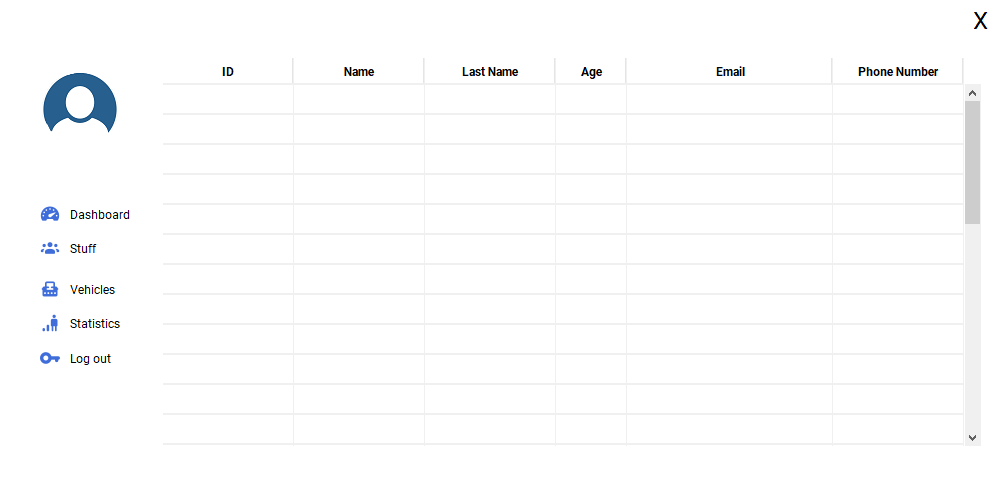
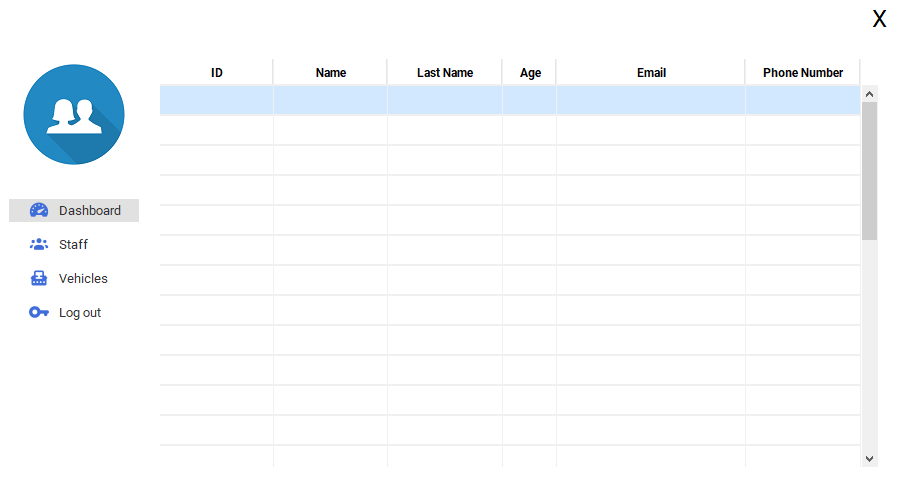
Add menu events

diff --git a/src/main/java/com/tix/dashboard/components/MenuButton.java b/src/main/java/com/tix/dashboard/components/MenuButton.java
@@ -5,9 +5,9 @@
 package com.tix.dashboard.components;
 
 import com.tix.dashboard.event.MenuEvent;
-import com.tix.login.Login;
-import com.tix.main.Main;
 import java.awt.Color;
+import java.util.ArrayList;
+import javax.swing.JButton;
 
 /**
  *
@@ -20,6 +20,10 @@ public class MenuButton extends javax.swing.JPanel {
      */
     public MenuButton() {
         initComponents();
+        buttons.add(dashboardButton);
+        buttons.add(staffButton);
+        buttons.add(vehiclesButton);
+        buttons.add(logoutButton);
     }
 
     /**
@@ -51,19 +55,13 @@ public class MenuButton extends javax.swing.JPanel {
         dashboardButton.setIconTextGap(10);
         dashboardButton.addMouseListener(new java.awt.event.MouseAdapter() {
             public void mouseClicked(java.awt.event.MouseEvent evt) {
-                dashboardButtonMouseClicked(evt);
+                buttonMouseClicked(evt);
             }
             public void mouseEntered(java.awt.event.MouseEvent evt) {
-                dashboardButtonMouseEntered(evt);
+                buttonMouseEntered(evt);
             }
             public void mouseExited(java.awt.event.MouseEvent evt) {
-                dashboardButtonMouseExited(evt);
-            }
-            public void mousePressed(java.awt.event.MouseEvent evt) {
-                dashboardButtonMousePressed(evt);
-            }
-            public void mouseReleased(java.awt.event.MouseEvent evt) {
-                dashboardButtonMouseReleased(evt);
+                buttonMouseExited(evt);
             }
         });
 
@@ -80,19 +78,13 @@ public class MenuButton extends javax.swing.JPanel {
         staffButton.setIconTextGap(10);
         staffButton.addMouseListener(new java.awt.event.MouseAdapter() {
             public void mouseClicked(java.awt.event.MouseEvent evt) {
-                staffButtonMouseClicked(evt);
+                buttonMouseClicked(evt);
             }
             public void mouseEntered(java.awt.event.MouseEvent evt) {
-                staffButtonMouseEntered(evt);
+                buttonMouseEntered(evt);
             }
             public void mouseExited(java.awt.event.MouseEvent evt) {
-                staffButtonMouseExited(evt);
-            }
-            public void mousePressed(java.awt.event.MouseEvent evt) {
-                staffButtonMousePressed(evt);
-            }
-            public void mouseReleased(java.awt.event.MouseEvent evt) {
-                staffButtonMouseReleased(evt);
+                buttonMouseExited(evt);
             }
         });
 
@@ -109,19 +101,13 @@ public class MenuButton extends javax.swing.JPanel {
         vehiclesButton.setIconTextGap(10);
         vehiclesButton.addMouseListener(new java.awt.event.MouseAdapter() {
             public void mouseClicked(java.awt.event.MouseEvent evt) {
-                vehiclesButtonMouseClicked(evt);
+                buttonMouseClicked(evt);
             }
             public void mouseEntered(java.awt.event.MouseEvent evt) {
-                vehiclesButtonMouseEntered(evt);
+                buttonMouseEntered(evt);
             }
             public void mouseExited(java.awt.event.MouseEvent evt) {
-                vehiclesButtonMouseExited(evt);
-            }
-            public void mousePressed(java.awt.event.MouseEvent evt) {
-                vehiclesButtonMousePressed(evt);
-            }
-            public void mouseReleased(java.awt.event.MouseEvent evt) {
-                vehiclesButtonMouseReleased(evt);
+                buttonMouseExited(evt);
             }
         });
 
@@ -138,19 +124,13 @@ public class MenuButton extends javax.swing.JPanel {
         logoutButton.setIconTextGap(10);
         logoutButton.addMouseListener(new java.awt.event.MouseAdapter() {
             public void mouseClicked(java.awt.event.MouseEvent evt) {
-                logoutButtonMouseClicked(evt);
+                buttonMouseClicked(evt);
             }
             public void mouseEntered(java.awt.event.MouseEvent evt) {
-                logoutButtonMouseEntered(evt);
+                buttonMouseEntered(evt);
             }
             public void mouseExited(java.awt.event.MouseEvent evt) {
-                logoutButtonMouseExited(evt);
-            }
-            public void mousePressed(java.awt.event.MouseEvent evt) {
-                logoutButtonMousePressed(evt);
-            }
-            public void mouseReleased(java.awt.event.MouseEvent evt) {
-                logoutButtonMouseReleased(evt);
+                buttonMouseExited(evt);
             }
         });
 
@@ -178,94 +158,31 @@ public class MenuButton extends javax.swing.JPanel {
         );
     }// </editor-fold>//GEN-END:initComponents
 
-    private void dashboardButtonMouseEntered(java.awt.event.MouseEvent evt) {//GEN-FIRST:event_dashboardButtonMouseEntered
-        dashboardButton.setBackground(new Color(225, 225, 225));
-    }//GEN-LAST:event_dashboardButtonMouseEntered
+    private void buttonMouseEntered(java.awt.event.MouseEvent evt) {//GEN-FIRST:event_buttonMouseEntered
+        for (JButton button : buttons) {
+            if (evt.getSource().equals(button)) {
+                button.setBackground(new Color(225, 225, 225));
+            }
+        }
+    }//GEN-LAST:event_buttonMouseEntered
 
-    private void dashboardButtonMouseExited(java.awt.event.MouseEvent evt) {//GEN-FIRST:event_dashboardButtonMouseExited
-        dashboardButton.setBackground(new Color(255, 255, 255));
-    }//GEN-LAST:event_dashboardButtonMouseExited
+    private void buttonMouseExited(java.awt.event.MouseEvent evt) {//GEN-FIRST:event_buttonMouseExited
+        for (JButton button : buttons) {
+            if (evt.getSource().equals(button)) {
+                button.setBackground(new Color(255, 255, 255));
+            }
+        }
+    }//GEN-LAST:event_buttonMouseExited
 
-    private void dashboardButtonMousePressed(java.awt.event.MouseEvent evt) {//GEN-FIRST:event_dashboardButtonMousePressed
-        dashboardButton.setForeground(new Color(255, 255, 255));
-    }//GEN-LAST:event_dashboardButtonMousePressed
-
-    private void dashboardButtonMouseReleased(java.awt.event.MouseEvent evt) {//GEN-FIRST:event_dashboardButtonMouseReleased
-        dashboardButton.setForeground(new Color(51, 51, 51));
-    }//GEN-LAST:event_dashboardButtonMouseReleased
-
-    private void staffButtonMouseEntered(java.awt.event.MouseEvent evt) {//GEN-FIRST:event_staffButtonMouseEntered
-        staffButton.setBackground(new Color(225, 225, 225));
-    }//GEN-LAST:event_staffButtonMouseEntered
-
-    private void staffButtonMouseExited(java.awt.event.MouseEvent evt) {//GEN-FIRST:event_staffButtonMouseExited
-        staffButton.setBackground(new Color(255, 255, 255));
-    }//GEN-LAST:event_staffButtonMouseExited
-
-    private void staffButtonMousePressed(java.awt.event.MouseEvent evt) {//GEN-FIRST:event_staffButtonMousePressed
-        staffButton.setForeground(new Color(255, 255, 255));
-    }//GEN-LAST:event_staffButtonMousePressed
-
-    private void staffButtonMouseReleased(java.awt.event.MouseEvent evt) {//GEN-FIRST:event_staffButtonMouseReleased
-        staffButton.setForeground(new Color(51, 51, 51));
-    }//GEN-LAST:event_staffButtonMouseReleased
-
-    private void vehiclesButtonMouseEntered(java.awt.event.MouseEvent evt) {//GEN-FIRST:event_vehiclesButtonMouseEntered
-        vehiclesButton.setBackground(new Color(225, 225, 225));
-    }//GEN-LAST:event_vehiclesButtonMouseEntered
-
-    private void vehiclesButtonMouseExited(java.awt.event.MouseEvent evt) {//GEN-FIRST:event_vehiclesButtonMouseExited
-        vehiclesButton.setBackground(new Color(255, 255, 255));
-    }//GEN-LAST:event_vehiclesButtonMouseExited
-
-    private void vehiclesButtonMousePressed(java.awt.event.MouseEvent evt) {//GEN-FIRST:event_vehiclesButtonMousePressed
-        vehiclesButton.setForeground(new Color(255, 255, 255));
-    }//GEN-LAST:event_vehiclesButtonMousePressed
-
-    private void vehiclesButtonMouseReleased(java.awt.event.MouseEvent evt) {//GEN-FIRST:event_vehiclesButtonMouseReleased
-        vehiclesButton.setForeground(new Color(51, 51, 51));
-    }//GEN-LAST:event_vehiclesButtonMouseReleased
-
-    private void logoutButtonMouseEntered(java.awt.event.MouseEvent evt) {//GEN-FIRST:event_logoutButtonMouseEntered
-        logoutButton.setBackground(new Color(225, 225, 225));
-    }//GEN-LAST:event_logoutButtonMouseEntered
-
-    private void logoutButtonMouseExited(java.awt.event.MouseEvent evt) {//GEN-FIRST:event_logoutButtonMouseExited
-        logoutButton.setBackground(new Color(255, 255, 255));
-    }//GEN-LAST:event_logoutButtonMouseExited
-
-    private void logoutButtonMousePressed(java.awt.event.MouseEvent evt) {//GEN-FIRST:event_logoutButtonMousePressed
-        logoutButton.setForeground(new Color(255, 255, 255));
-    }//GEN-LAST:event_logoutButtonMousePressed
-
-    private void logoutButtonMouseReleased(java.awt.event.MouseEvent evt) {//GEN-FIRST:event_logoutButtonMouseReleased
-        logoutButton.setForeground(new Color(51, 51, 51));
-    }//GEN-LAST:event_logoutButtonMouseReleased
-
-    private void dashboardButtonMouseClicked(java.awt.event.MouseEvent evt) {//GEN-FIRST:event_dashboardButtonMouseClicked
-        event.menuSelected(0);
-    }//GEN-LAST:event_dashboardButtonMouseClicked
-
-    private void staffButtonMouseClicked(java.awt.event.MouseEvent evt) {//GEN-FIRST:event_staffButtonMouseClicked
-        event.menuSelected(1);
-    }//GEN-LAST:event_staffButtonMouseClicked
-
-    private void vehiclesButtonMouseClicked(java.awt.event.MouseEvent evt) {//GEN-FIRST:event_vehiclesButtonMouseClicked
-        event.menuSelected(2);
-    }//GEN-LAST:event_vehiclesButtonMouseClicked
-
-    private void logoutButtonMouseClicked(java.awt.event.MouseEvent evt) {//GEN-FIRST:event_logoutButtonMouseClicked
-        event.menuSelected(3);
-    }//GEN-LAST:event_logoutButtonMouseClicked
-
-    private void logoutButtonMouseClicked(java.awt.event.MouseEvent evt, Main main) {
-        main.setContentPane(new Login());
-    }
+    private void buttonMouseClicked(java.awt.event.MouseEvent evt) {//GEN-FIRST:event_buttonMouseClicked
+        event.menuSelected(buttons.indexOf(evt.getSource()));
+    }//GEN-LAST:event_buttonMouseClicked
 
     public void addEventMenuSelected(MenuEvent event) {
         this.event = event;
     }
 
+    private ArrayList<JButton> buttons = new ArrayList<>();
     private MenuEvent event;
     // Variables declaration - do not modify//GEN-BEGIN:variables
     private javax.swing.JButton dashboardButton;

diff --git a/src/main/java/com/tix/login/Login.java b/src/main/java/com/tix/login/Login.java
@@ -16,7 +16,6 @@ public class Login extends javax.swing.JPanel {
     /**
      * Creates new form Login
      *
-     * @param main
      */
     public Login() {
         initComponents();
